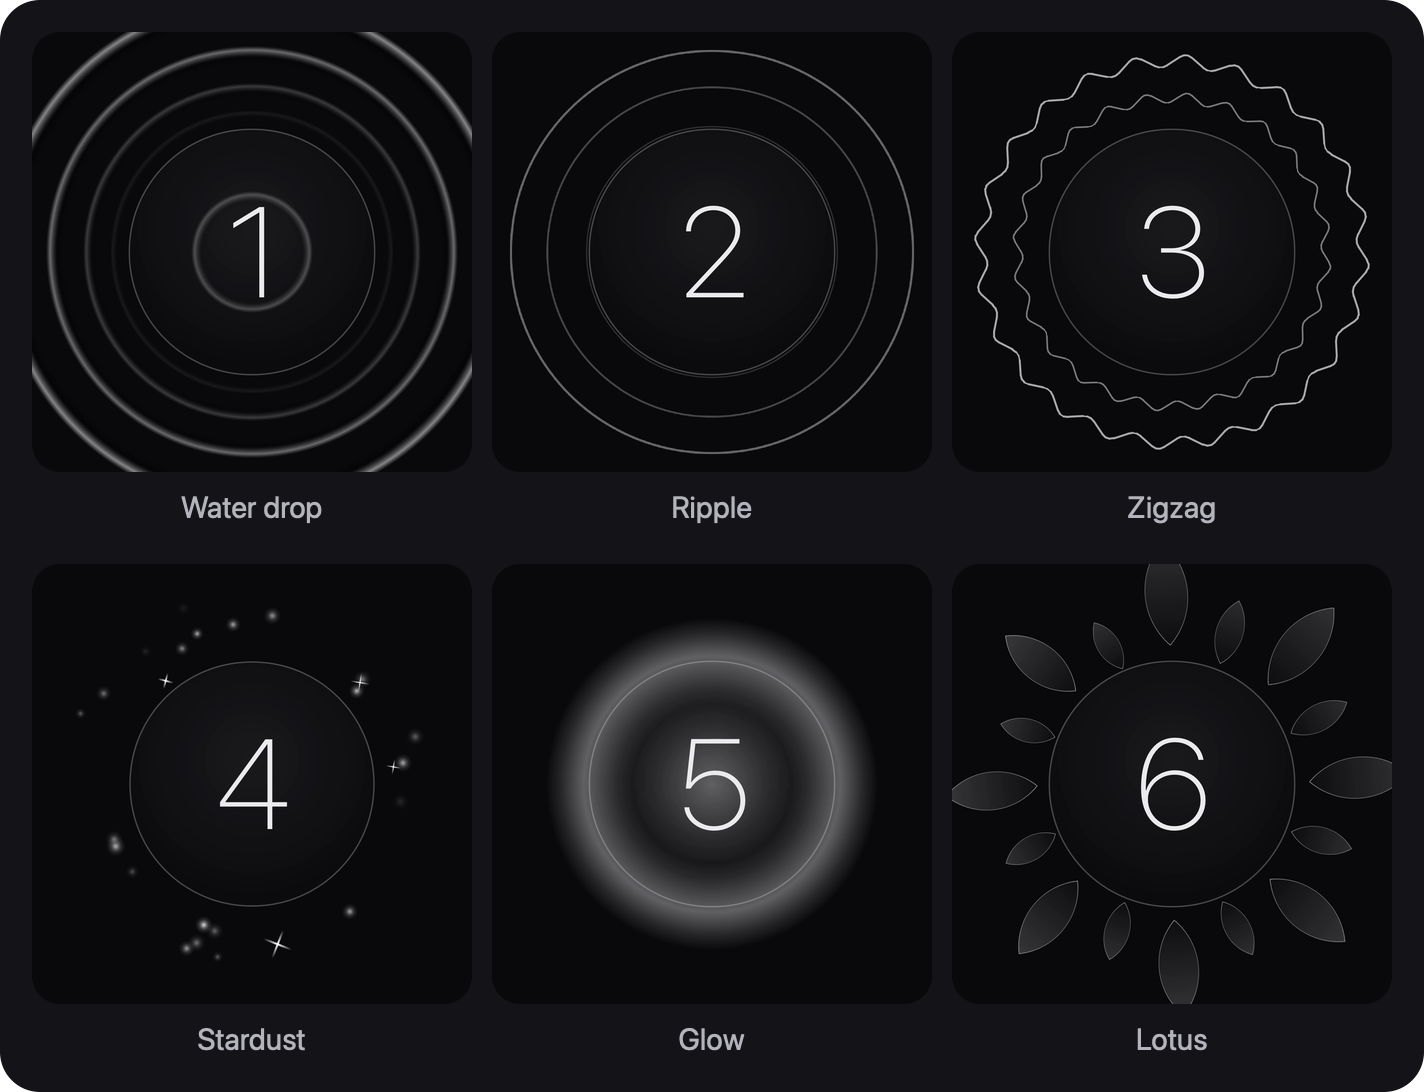
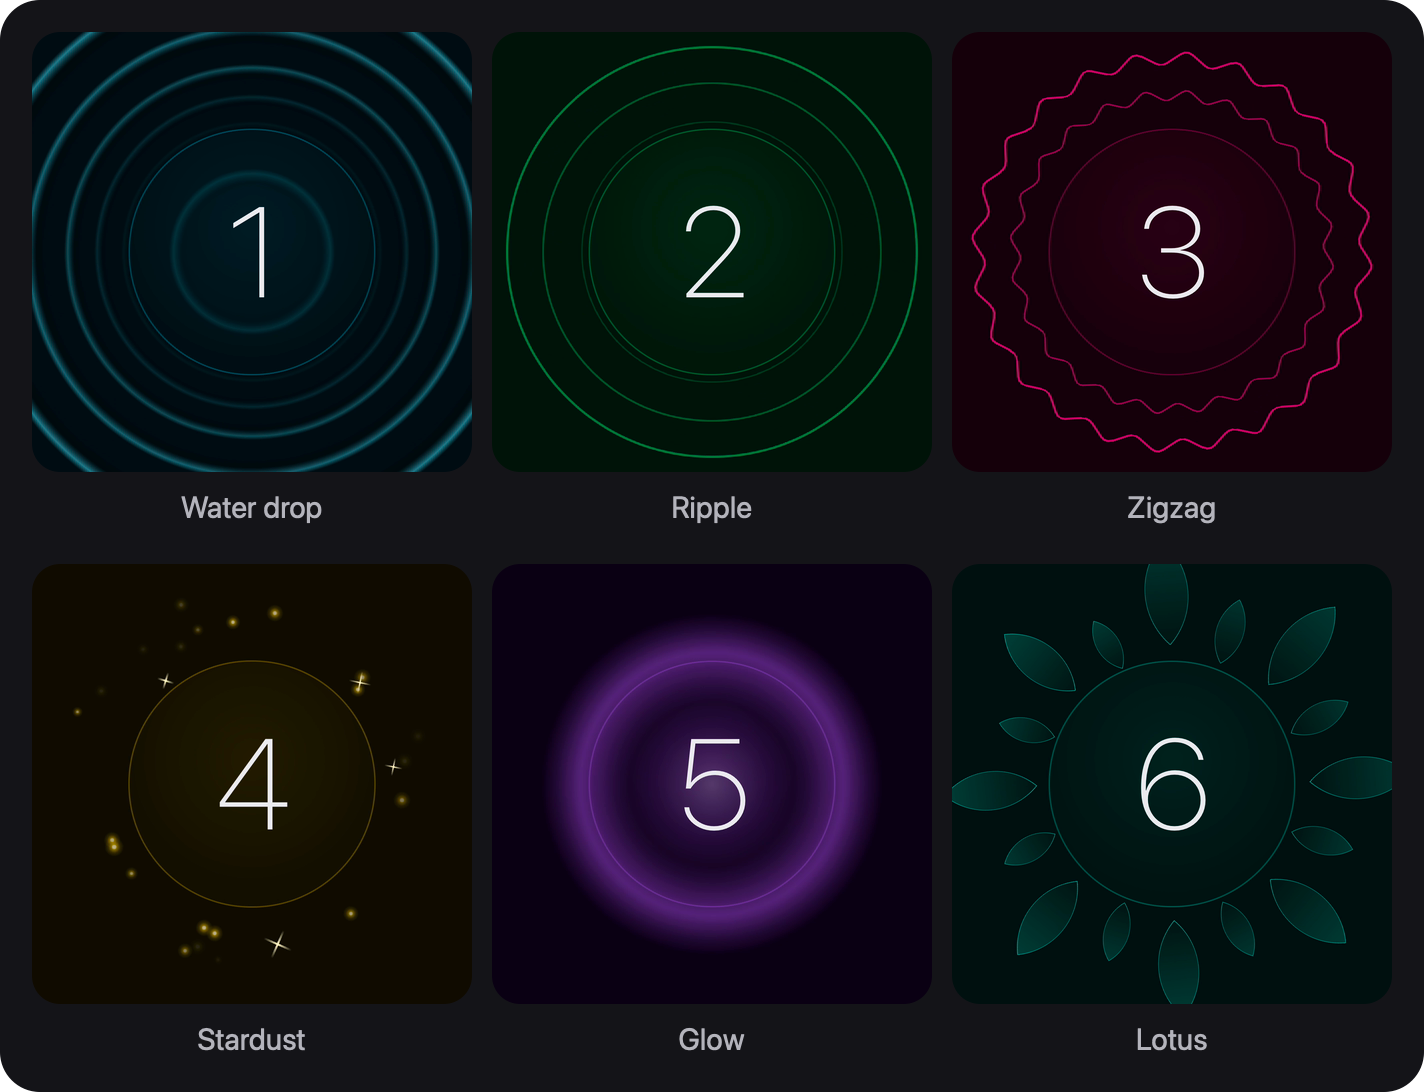
Make the top color row neon
In dark mode the top row of the palette now holds neon colors: Pink,
Orange, Yellow, Lime, Green, Aqua, Cyan, Blue, Indigo, Purple and
Magenta (Mono stays). The softer row below is unchanged. In light mode
each neon color takes a deeper shade of the same hue, at about 4.5:1
against the background.

- Background tint: how far a color's tint may reach from gray is now
  capped, so neon colors tint the backgrounds as faintly as the softer
  ones. Uncapped, light mode turned visibly colored.
- README: the effects collage is retaken with each effect in a
  different neon color, and the settings shots show the neon grid in
  dark mode and the target list in light mode.

diff --git a/src/theme.ts b/src/theme.ts
@@ -37,14 +37,20 @@ export function mix(from: Rgb, to: Rgb, amount: number): Rgb {
   ]
 }
 
+// How far from gray a color's tint may reach; neon colors go well past it, softer ones stay below.
+const MAX_TINT_SPREAD = 80
+
 /**
  * Leans `base` toward the hue of `color` without changing how light it is: only what sets the
- * color apart from gray is added, so neutral colors leave the base as it is.
+ * color apart from gray is added, so neutral colors leave the base as it is. That difference is
+ * capped, so neon colors tint the backgrounds as faintly as the softer ones.
  */
 function tinted(base: Rgb, color: Rgb, amount: number): Rgb {
   const gray = (color[0] + color[1] + color[2]) / 3
+  const spread = Math.max(...color.map((value) => Math.abs(value - gray)))
+  const strength = amount * Math.min(1, MAX_TINT_SPREAD / spread)
   const channel = (index: 0 | 1 | 2) =>
-    Math.min(Math.max(Math.round(base[index] + (color[index] - gray) * amount), 0), 255)
+    Math.min(Math.max(Math.round(base[index] + (color[index] - gray) * strength), 0), 255)
   return [channel(0), channel(1), channel(2)]
 }
 
@@ -57,21 +63,22 @@ function hex(value: string): Rgb {
 }
 
 // Every color has a luminous shade for dark mode and a deeper one that keeps its contrast on the
-// light background, so a color reads as the same color in both modes.
+// light background, so a color reads as the same color in both modes. The top row is neon on
+// dark; on light it takes the same hues, deepened to about 4.5:1 against the background.
 const COLOR_ROWS = [
   [
     { id: 'mono', name: 'Mono', dark: '#e8e8ee', light: '#3c3c43' },
-    { id: 'rose', name: 'Rose', dark: '#fb8fa6', light: '#c93f62' },
-    { id: 'coral', name: 'Coral', dark: '#ff9f85', light: '#cc5a3a' },
-    { id: 'amber', name: 'Amber', dark: '#ffc56b', light: '#b97a10' },
-    { id: 'lime', name: 'Lime', dark: '#c6e27a', light: '#678a1c' },
-    { id: 'emerald', name: 'Emerald', dark: '#6edca8', light: '#1e9462' },
-    { id: 'teal', name: 'Teal', dark: '#62d5cb', light: '#148a80' },
-    { id: 'sky', name: 'Sky', dark: '#7ec9f7', light: '#1f7fbd' },
-    { id: 'blue', name: 'Blue', dark: '#8eaaff', light: '#3d63d6' },
-    { id: 'indigo', name: 'Indigo', dark: '#a8a4ff', light: '#5b4fd3' },
-    { id: 'violet', name: 'Violet', dark: '#c7a3ff', light: '#7c4bd6' },
-    { id: 'orchid', name: 'Orchid', dark: '#ef9de6', light: '#ae3ca8' },
+    { id: 'pink', name: 'Pink', dark: '#ff2e88', light: '#d9046e' },
+    { id: 'orange', name: 'Orange', dark: '#ff6a2b', light: '#c34501' },
+    { id: 'yellow', name: 'Yellow', dark: '#ffd21f', light: '#866d03' },
+    { id: 'lime', name: 'Lime', dark: '#b5ff2b', light: '#547b00' },
+    { id: 'green', name: 'Green', dark: '#2bff88', light: '#068140' },
+    { id: 'aqua', name: 'Aqua', dark: '#1ff2d6', light: '#057d6e' },
+    { id: 'cyan', name: 'Cyan', dark: '#22d3ff', light: '#027995' },
+    { id: 'blue', name: 'Blue', dark: '#4d8dff', light: '#0264fa' },
+    { id: 'indigo', name: 'Indigo', dark: '#7b6cff', light: '#6d4ffe' },
+    { id: 'purple', name: 'Purple', dark: '#b45cff', light: '#a61afe' },
+    { id: 'magenta', name: 'Magenta', dark: '#ff44ee', light: '#c801bb' },
   ],
   [
     { id: 'sand', name: 'Sand', dark: '#dccab0', light: '#8b7354' },
@@ -100,7 +107,7 @@ export type Accent = {
   light: Rgb
 }
 
-/** The picker's grid: bright colors above, softer ones below, one hue family per column. */
+/** The picker's grid: neon colors above, softer ones below, one hue family per column. */
 export const ACCENT_ROWS: readonly (readonly Accent[])[] = COLOR_ROWS.map((row) =>
   row.map(({ id, name, dark, light }, column) => ({
     id,

diff --git a/src/components/ColorSelect.tsx b/src/components/ColorSelect.tsx
@@ -37,7 +37,7 @@ type ColorSelectProps = {
 }
 
 /**
- * A drop-down of color swatches in two rows, bright above and soft below, with as many columns
+ * A drop-down of color swatches in two rows, neon above and soft below, with as many columns
  * as fit. It stays open after a pick, so colors can be tried one after another.
  */
 export function ColorSelect({ label, value, open, onToggle, onChange }: ColorSelectProps) {

diff --git a/README.md b/README.md
@@ -2,7 +2,7 @@
 
 A calm, distraction-free counter for meditation, breathwork and everyday tracking, for iOS and Android. The counter is a circle: tap it to add one, and it answers like a drop falling into still water. Set a target to count in rounds, up or down, and pick the color, the mode and the tap effect that suit the moment.
 
-![The six tap effects around the counter circle: water drop, ripple, zigzag, stardust, glow and lotus](docs/screenshots/tap-effects.png)
+![The six tap effects around the counter circle, each in a different neon color: water drop, ripple, zigzag, stardust, glow and lotus](docs/screenshots/tap-effects.png)
 
 Built with React Native + [Expo](https://expo.dev) (SDK 58) and TypeScript, using React Native Gesture Handler for touch handling and Reanimated for animation.
 
@@ -46,16 +46,16 @@ The first iOS build takes a few minutes longer than usual. React Native is compi
 - **Move:** Hold the circle for half a second. It lifts with a haptic tick and brightens; then drag it anywhere on screen. It stays inside the safe area and clear of the settings button. Holding and dragging never change the count.
 
 <p align="center">
-  <img src="docs/screenshots/settings-target.png" width="300" alt="Settings in dark mode, with the target list open: Off, the last three targets and Custom">
+  <img src="docs/screenshots/settings-color.png" width="300" alt="Settings in dark mode, with the color grid open and Cyan selected">
   &nbsp;
-  <img src="docs/screenshots/settings-color.png" width="300" alt="Settings in light mode, with the color grid open and Sky selected">
+  <img src="docs/screenshots/settings-target.png" width="300" alt="Settings in light mode with Pink selected, and the target list open: Off, the last three targets and Custom">
 </p>
 
 - **Settings:** The gear in the top-right corner opens the settings page; Done closes it, as does a swipe down on iOS or Back on Android. Each setting is a drop-down that opens in place.
   - **Target:** Off (the count just goes on), one of the last three targets you set, or Custom to type a new one up to 99,999 into a field that opens empty. Typing 0 means no target, the same as Off. Picking a target moves it to the top of the list; a fourth new one replaces the target set longest ago. With a target set, the circle shows the current round.
   - **Direction:** Count up from 0 to the target, or down from the target to 0. Reaching the end completes a round: the round number goes up, the count starts over, and the tap effect plays bigger and brighter. Changing the target or the direction restarts the current round and keeps the completed ones.
   - **Reset count:** After a confirmation, the count goes back to the start and the rounds are cleared.
-  - **Color:** A grid of swatches in two rows, bright colors above and softer ones below, with as many columns as fit the screen. The chosen color becomes the theme at once: the circle's edge, the tap effects, the selection marks and a faint tint of the backgrounds. The grid stays open, so colors can be tried one after another.
+  - **Color:** A grid of swatches in two rows, neon colors above and softer ones below, with as many columns as fit the screen. The chosen color becomes the theme at once: the circle's edge, the tap effects, the selection marks and a faint tint of the backgrounds. In light mode each color takes a deeper shade of itself, so it keeps its contrast. The grid stays open, so colors can be tried one after another.
   - **Mode:** Dark or Light. Light mirrors dark: the backgrounds and text swap, while the layout, the chosen color and the effects stay. System dialogs and the keyboard follow the mode.
   - **Tap effect:**
     - **Water drop** (default): the impact flashes, its crater rim spreads to the circle's edge, a train of waves rolls out, and the droplet that bounced back up falls in once more.
